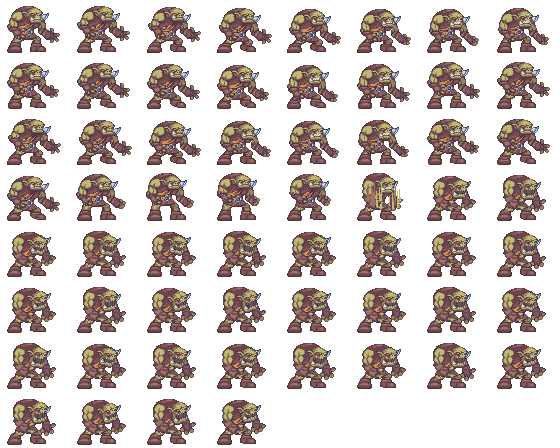
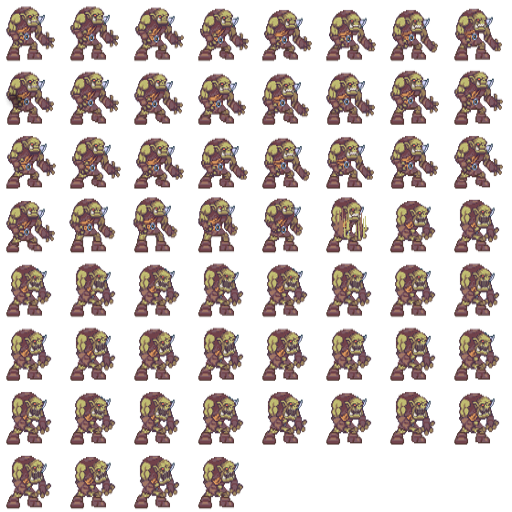
Characters are correct size and stay with map
Weird teleport bug still there...

diff --git a/events.js b/events.js
@@ -79,7 +79,7 @@ MapTeleportEvent.prototype.collisionTrigger = function (player) {
  * the player to the battle scene.
  */
 function Enemy(game, mapid, x, y, w, h, spritesheet) {
-	this.animation = new Animation(spritesheet, 70, 56, 8, 0.07, 60, true, 1.0);
+	this.animation = new Animation(spritesheet, 64, 64, 8, 0.07, 60, true, 1.0);
 	this.hitBoxVisible = true;
 	Event.call(this, game, mapid, x, y, w, h);
 }
@@ -113,7 +113,7 @@ Enemy.prototype.collisionTrigger = function (player) {
 
 
 function Enemy2(game, mapid, x, y, w, h, spritesheet) {
-	this.animation = new Animation(spritesheet, 142, 96, 4, 0.1, 16, true, 1.0);
+	this.animation = new Animation(spritesheet, 64, 64, 4, 0.1, 16, true, 1.0);
 	this.hitBoxVisible = true;
 	Event.call(this, game, mapid, x, y, w, h);
 }
@@ -149,7 +149,7 @@ Enemy2.prototype.collisionTrigger = function (player) {
 
 
 function Enemy3(game, mapid, x, y, w, h, spritesheet) {
-	this.animation = new Animation(spritesheet, 81, 86, 2, 0.15, 4, true, 1.0);
+	this.animation = new Animation(spritesheet, 64, 64, 2, 0.15, 4, true, 1.0);
 	this.hitBoxVisible = true;
 	Event.call(this, game, mapid, x, y, w, h);
 }

diff --git a/main.js b/main.js
@@ -380,9 +380,9 @@ AM.downloadAll(function () {
     
     gameEngine.addEntity(new MapTeleportEvent(gameEngine, 1, 400, 400, 50, 50, 1, 800, 800));
     gameEngine.addEntity(new MapTeleportEvent(gameEngine, 1, 400, 100, 50, 50, 1, 100, 100));
-    gameEngine.addEntity(new Enemy(gameEngine, 1, 100, 100, 60, 56, AM.getAsset("./img/greenrage.png")));
-    gameEngine.addEntity(new Enemy2(gameEngine, 1, 50, 250, 142, 96, AM.getAsset("./img/shark.png")));
-    gameEngine.addEntity(new Enemy3(gameEngine, 1, 200, 400, 96, 86, AM.getAsset("./img/alienfirebird.png")));
+    gameEngine.addEntity(new Enemy(gameEngine, 1, 64, 64, 64, 64, AM.getAsset("./img/greenrage.png")));
+    gameEngine.addEntity(new Enemy2(gameEngine, 1, 64, 128, 64, 64, AM.getAsset("./img/shark.png")));
+    gameEngine.addEntity(new Enemy3(gameEngine, 1, 64, 256, 64, 64, AM.getAsset("./img/alienfirebird.png")));
     
     console.log("All Done!");
 });
